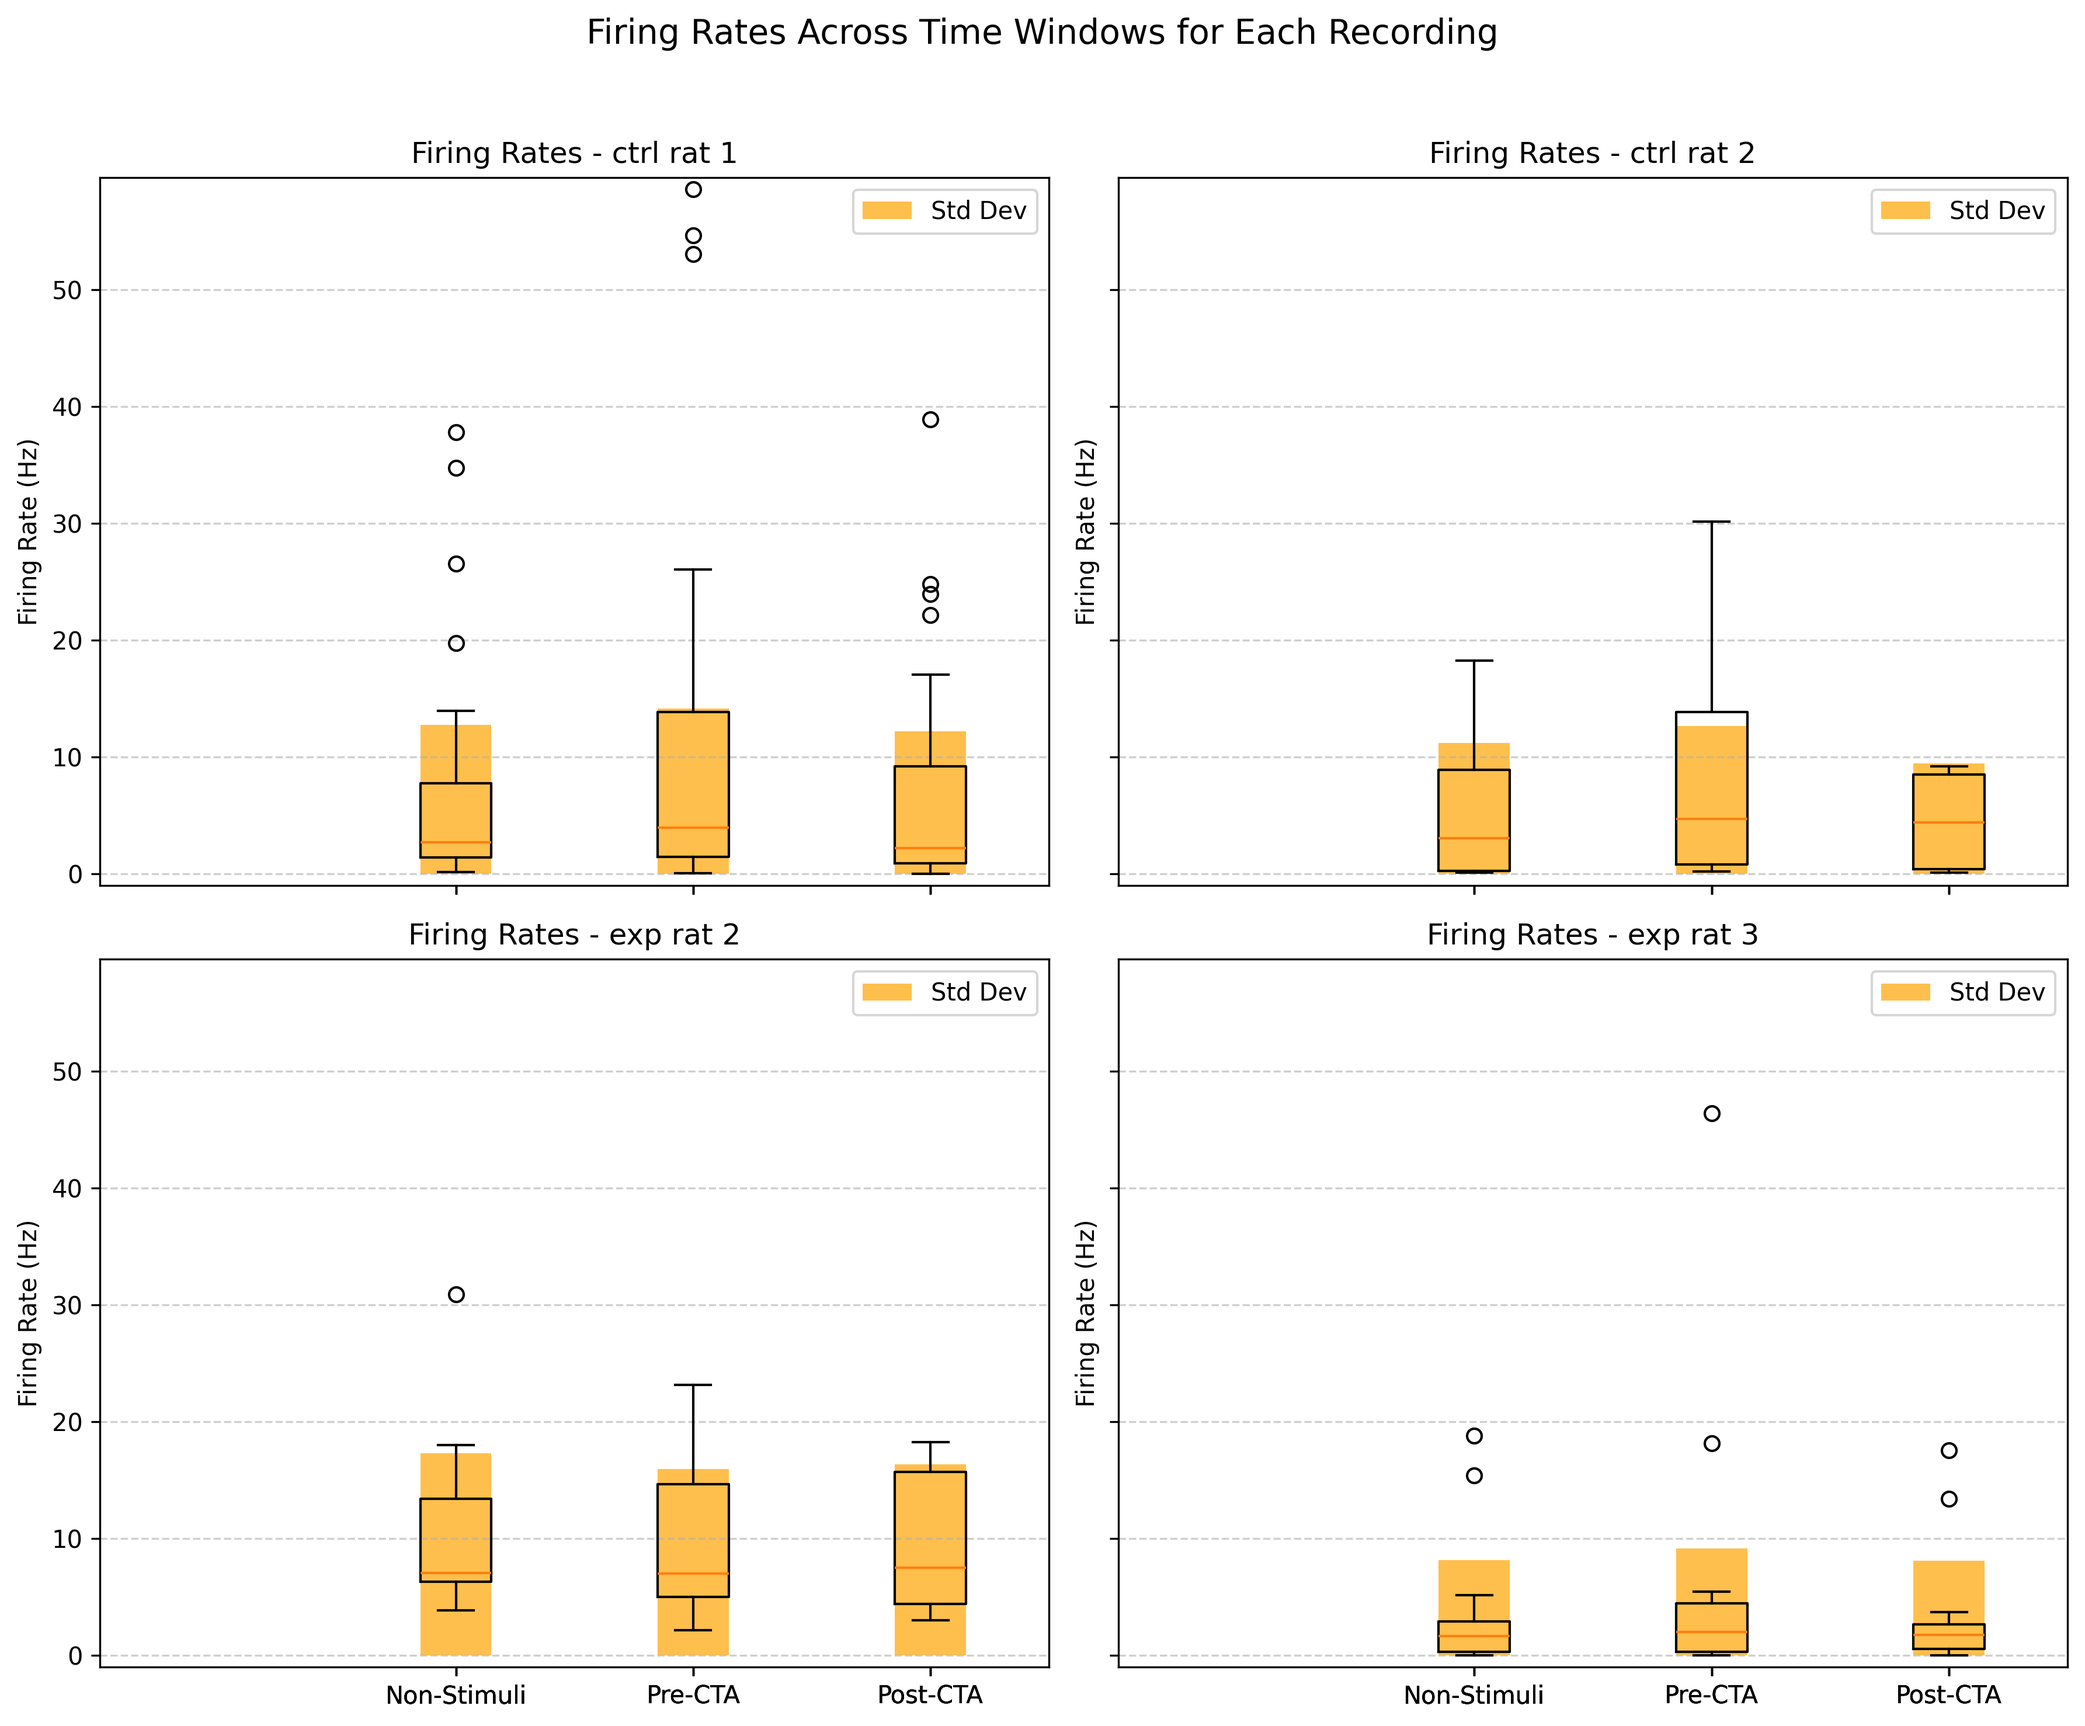
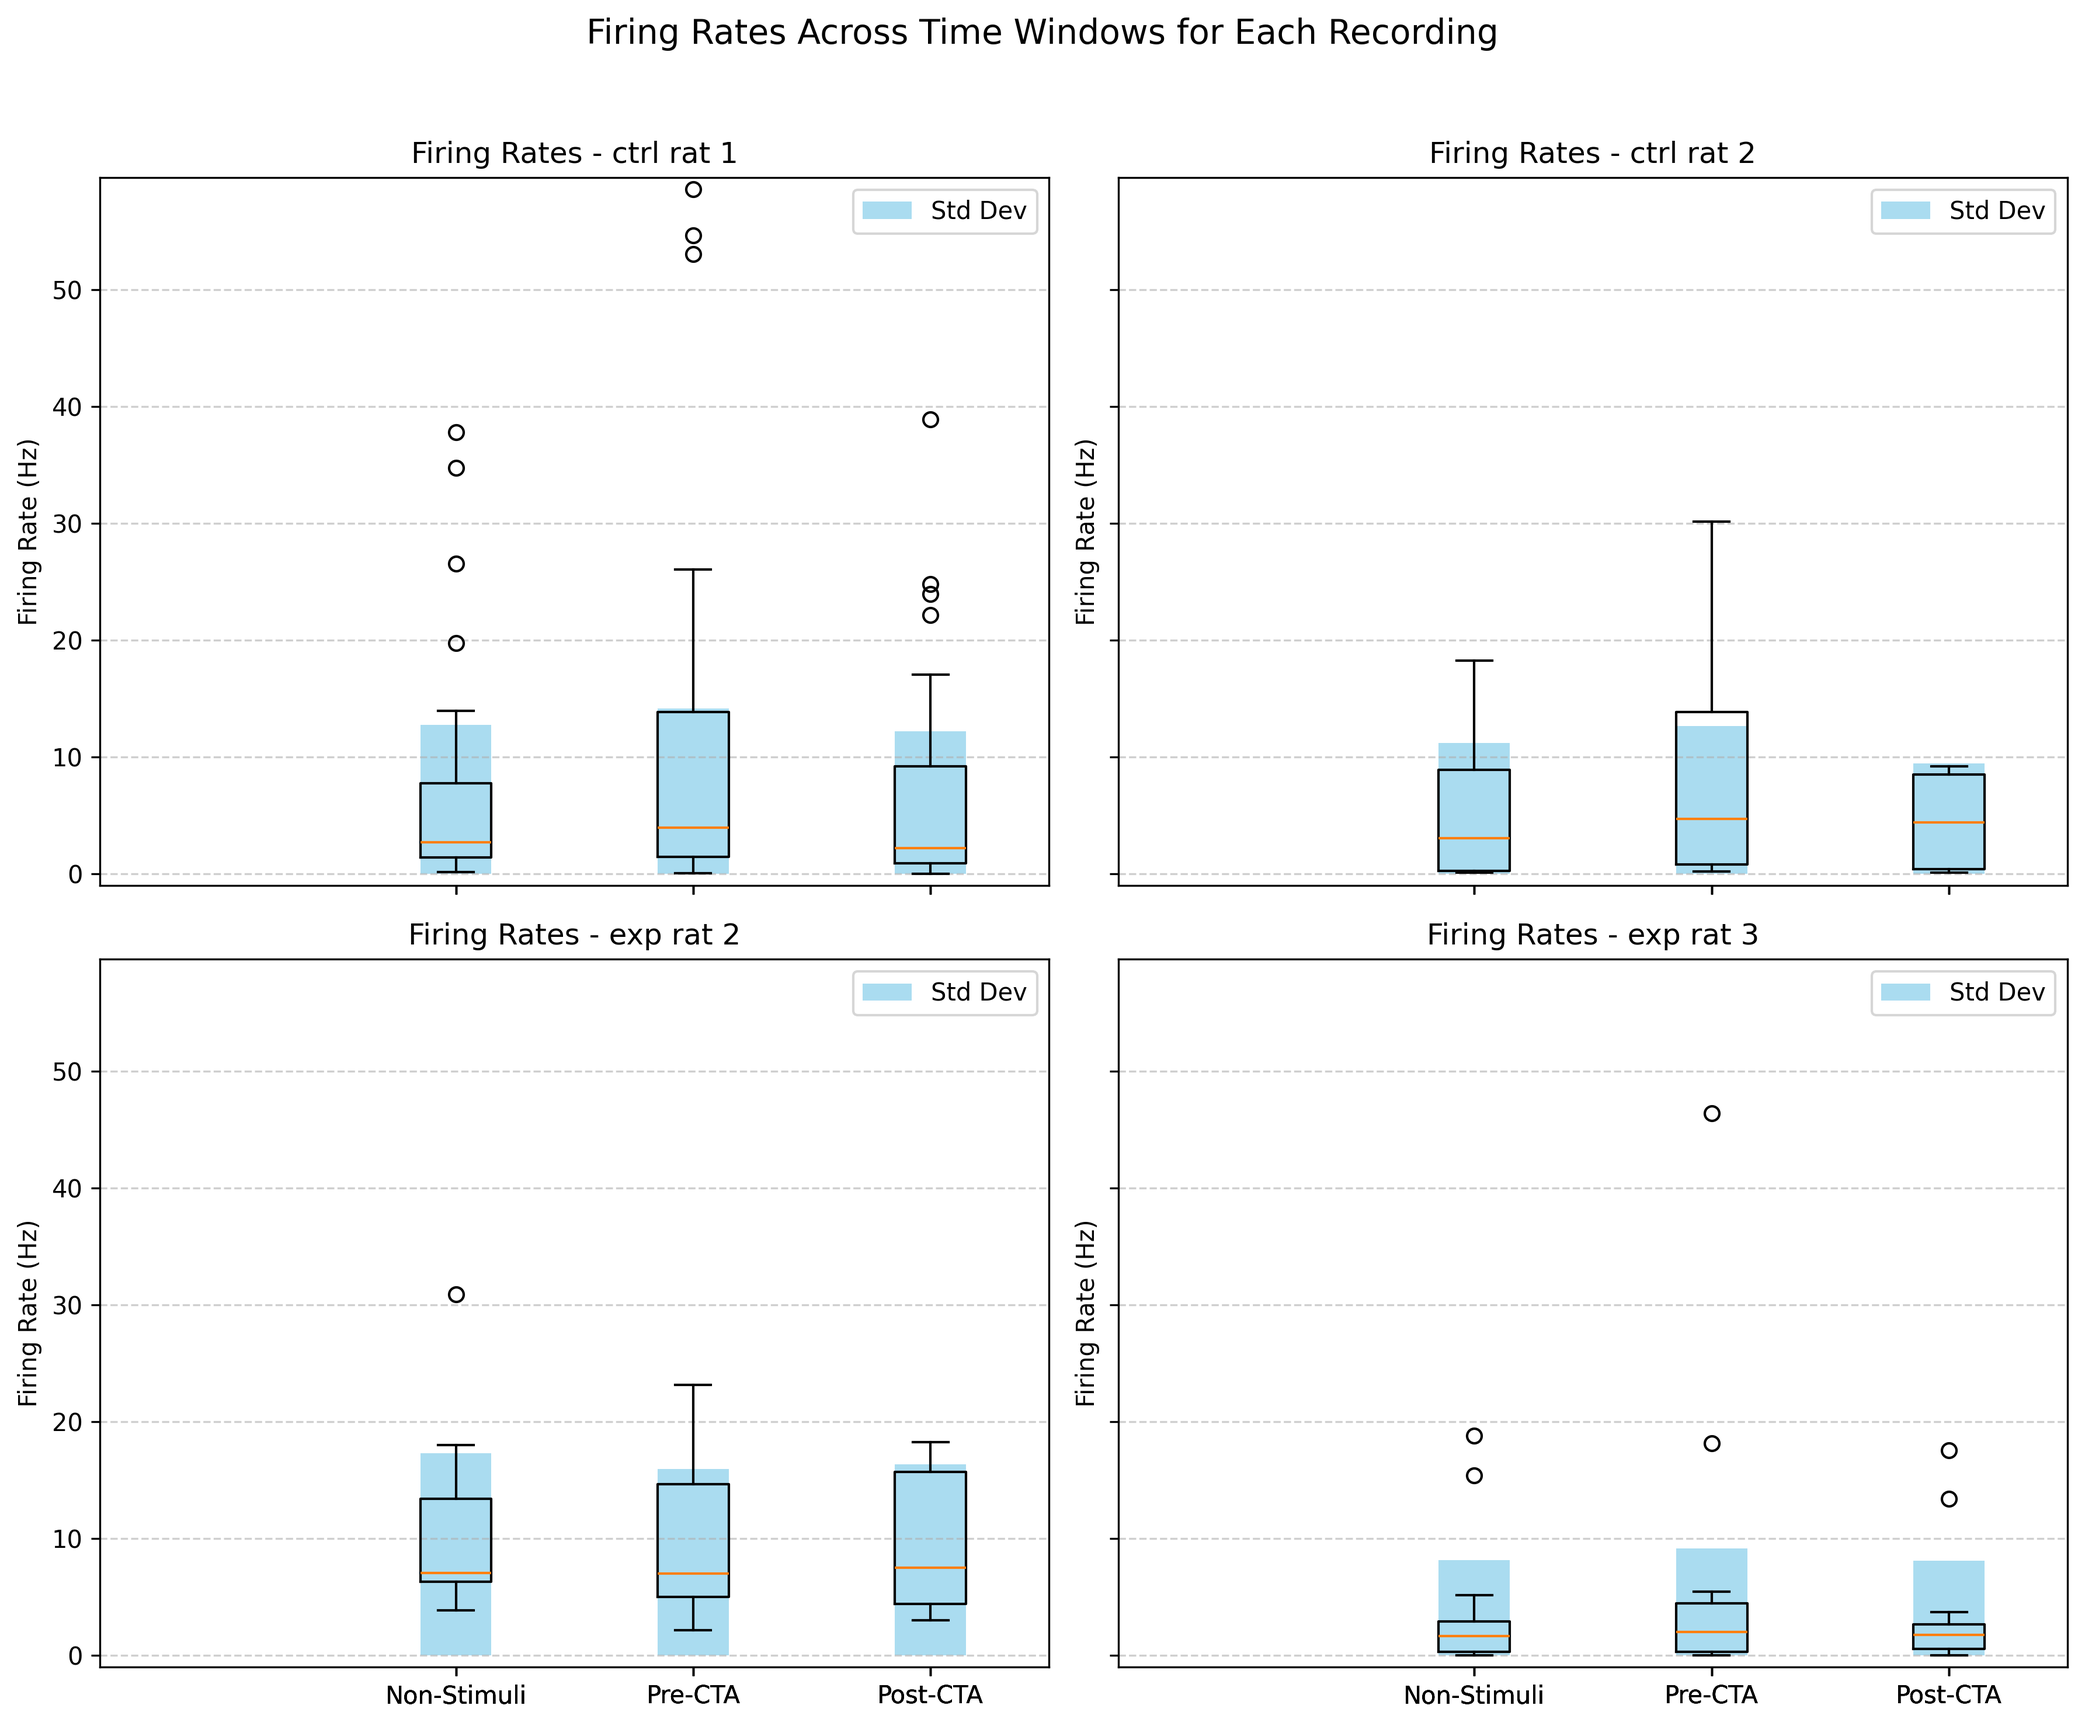
added group-level descriptives and changed ugly orange color

diff --git a/new_bsa.py b/new_bsa.py
@@ -87,7 +87,7 @@ phase and a very strong stimulus would be needed for a new spike
 - chose a conservative criterion because our biggest enemy too high is data loss
 
 """ 
-#%% Extract data + run correlograms
+#%% Extract data 
 # Extract spiking data from each pkl file and save it as its own variable
 # Define file paths
 file_1 = os.path.join(pkl_dir, "ctrl rat 1.pkl")
@@ -232,6 +232,9 @@ axes = axes.flatten()
 # Collect y-axis limits from each subplot
 y_mins, y_maxes = [], []
 
+# Prep list to collect summary stats for individual recordings
+summary_stats = []
+
 # Loop through each dataset and process it
 for ax, (file_name, ds) in zip(axes, datasets.items()):
     try:
@@ -239,20 +242,41 @@ for ax, (file_name, ds) in zip(axes, datasets.items()):
         y_mins.append(local_ymin)
         y_maxes.append(local_ymax)
         
-        # Print summary statistics
+        # Extract data and compute firing rates for individual summary
         data = ds["data"]
         sacc_start = data.get("sacc drinking session start time", 0)
         cta_time = data.get("CTA injection time", 0)
         spike_times_list = get_spike_times(data)
-        non_stimuli_rates = compute_firing_rates(spike_times_list, ds["non_stimuli_time"])
-        pre_CTA_rates = compute_firing_rates(spike_times_list, (sacc_start, cta_time))
-        post_CTA_rates = compute_firing_rates(spike_times_list, (cta_time + 3 * 3600, max(np.max(times) for times in spike_times_list if len(times) > 0)))
         
+        # Define time windows
+        non_stimuli_time = ds["non_stimuli_time"]
+        pre_CTA_time = (sacc_start, cta_time)
+        max_time = max((np.max(times) for times in spike_times_list if len(times) > 0), default=0)
+        post_CTA_time = (cta_time + 3 * 3600, max_time)
+        
+        # Compute firing rates using helper functions
+        non_stimuli_rates = compute_firing_rates(spike_times_list, non_stimuli_time)
+        pre_CTA_rates = compute_firing_rates(spike_times_list, pre_CTA_time)
+        post_CTA_rates = compute_firing_rates(spike_times_list, post_CTA_time)
+        
+        # Print summary statistics for the individual dataset
         print(f"Summary statistics for {file_name}:")
         print("Mean non-stimuli firing rate:", np.mean(non_stimuli_rates))
         print("Mean pre-CTA firing rate:", np.mean(pre_CTA_rates))
         print("Mean post-CTA firing rate:", np.mean(post_CTA_rates))
         print("-" * 50)
+        
+        # Determine group based on file name
+        group = "Control" if "ctrl" in file_name.lower() else "Experimental"
+        
+        # Store individual means along with the group label
+        summary_stats.append({
+            "Recording": file_name,
+            "Group": group,
+            "Non-Stimuli Mean": np.mean(non_stimuli_rates),
+            "Pre-CTA Mean": np.mean(pre_CTA_rates),
+            "Post-CTA Mean": np.mean(post_CTA_rates)
+        })
         
     except Exception as e:
         print(f"Error processing {file_name}: {e}")
@@ -271,4 +295,34 @@ plt.savefig(combined_figure_path, dpi=300, bbox_inches="tight")
 plt.close()
 
 print(f"Combined plot saved: {combined_figure_path}")
+
+# Create a DataFrame for individual recordings and compute group-level summary
+summary_df = pd.DataFrame(summary_stats)
+print("\nIndividual recording summary:")
+print(summary_df)
+
+group_summary = summary_df.groupby("Group").mean(numeric_only=True)
+print("\nGroup-level summary (Control vs Experimental):")
+print(group_summary)
+
+# Create a 1x2 figure for group-level means
+fig2, axs = plt.subplots(1, 2, figsize=(12, 5))
+# Iterate over groups and plot a bar chart for each
+for ax, (group, row) in zip(axs, group_summary.iterrows()):
+    time_windows = ["Non-Stimuli", "Pre-CTA", "Post-CTA"]
+    means = [row["Non-Stimuli Mean"], row["Pre-CTA Mean"], row["Post-CTA Mean"]]
+    
+    ax.bar(time_windows, means, color='skyblue', edgecolor='k', alpha=0.7)
+    ax.set_title(f"{group} Group")
+    ax.set_ylabel("Mean Firing Rate (Hz)")
+    ax.set_xlabel("Time Window")
+    ax.grid(axis='y', linestyle='--', alpha=0.6)
+
+plt.suptitle("Group-Level Mean Firing Rates")
+plt.tight_layout(rect=[0, 0, 1, 0.96])
+group_plot_path = os.path.join(figures_dir, "group_level_firing_rates.png")
+plt.savefig(group_plot_path, dpi=300, bbox_inches="tight")
+plt.close()
+
+print(f"Group-level plot saved: {group_plot_path}")
 # %%

diff --git a/functions/process_and_plot_dataset.py b/functions/process_and_plot_dataset.py
@@ -34,7 +34,7 @@ def process_and_plot_dataset(ds, file_name, ax):
     )
     ax.bar([1, 2, 3],
            [np.mean(non_stimuli_std), np.mean(pre_CTA_std), np.mean(post_CTA_std)],
-           width=0.3, color='orange', alpha=0.7, label="Std Dev")
+           width=0.3, color='skyblue', alpha=0.7, label="Std Dev")
     ax.set_ylabel("Firing Rate (Hz)")
     ax.set_title(f"Firing Rates - {file_name}")
     ax.grid(axis='y', linestyle='--', alpha=0.6)
